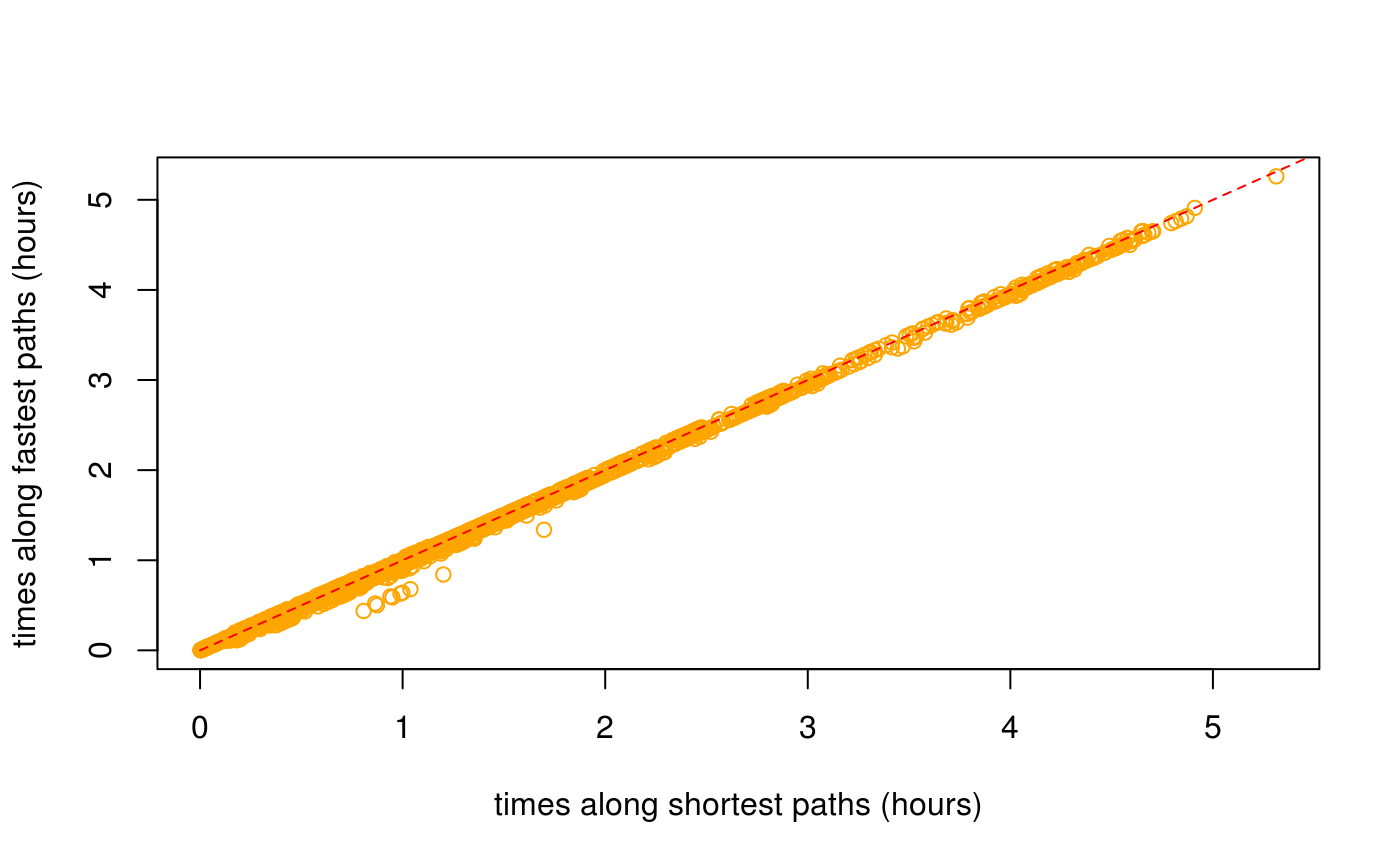
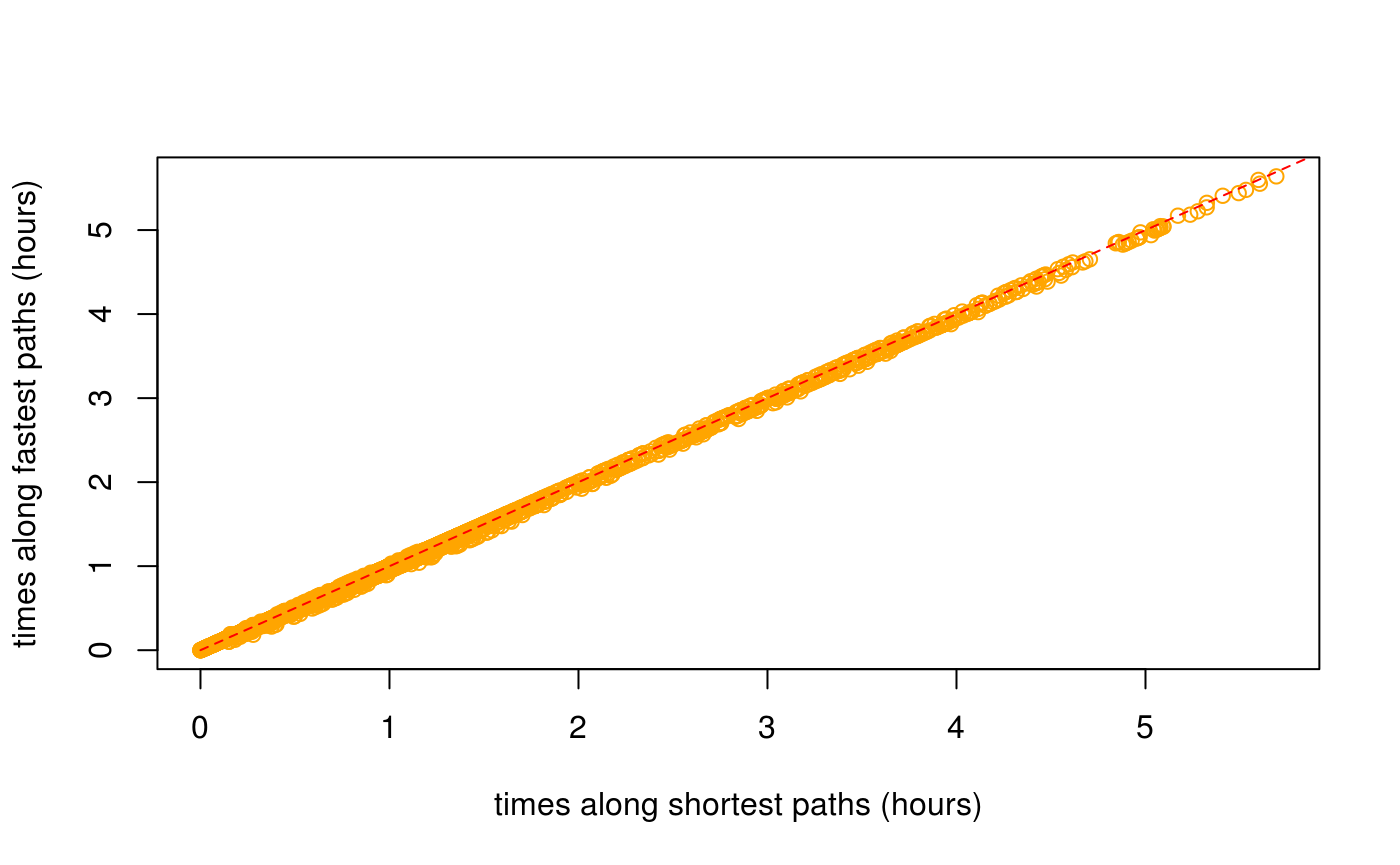
Built site for dodgr: 0.1.4.3@901f969

diff --git a/articles/dodgr.html b/articles/dodgr.html
@@ -330,10 +330,11 @@ Figure 2: A <strong>dual</strong>-weighted, directed graph in which the weights 
 ##                         14                          6 
 ##         Single Carriageway                  Slip Road 
 ##                          1                          8</code></pre>
-<div class="sourceCode" id="cb58"><pre class="sourceCode r"><code class="sourceCode r"><a class="sourceLine" id="cb58-1" data-line-number="1">wts &lt;-<span class="st"> </span><span class="kw"><a href="https://www.rdocumentation.org/packages/base/topics/c">c</a></span> (<span class="fl">0.1</span>, <span class="fl">0.2</span>, <span class="fl">0.8</span>, <span class="dv">1</span>)</a>
-<a class="sourceLine" id="cb58-2" data-line-number="2"><span class="kw"><a href="https://www.rdocumentation.org/packages/base/topics/names">names</a></span> (wts) &lt;-<span class="st"> </span><span class="kw"><a href="https://www.rdocumentation.org/packages/base/topics/unique">unique</a></span> (os_roads_bristol [[colnm]])</a>
-<a class="sourceLine" id="cb58-3" data-line-number="3">net &lt;-<span class="st"> </span><span class="kw"><a href="../reference/weight_streetnet.html">weight_streetnet</a></span> (os_roads_bristol, <span class="dt">wt_profile =</span> wts,</a>
-<a class="sourceLine" id="cb58-4" data-line-number="4">                         <span class="dt">type_col =</span> colnm, <span class="dt">id_col =</span> <span class="st">"identifier"</span>)</a></code></pre></div>
+<div class="sourceCode" id="cb58"><pre class="sourceCode r"><code class="sourceCode r"><a class="sourceLine" id="cb58-1" data-line-number="1">wts &lt;-<span class="st"> </span><span class="kw"><a href="https://www.rdocumentation.org/packages/base/topics/data.frame">data.frame</a></span> (<span class="dt">name =</span> <span class="st">"custom"</span>,</a>
+<a class="sourceLine" id="cb58-2" data-line-number="2">                   <span class="dt">way =</span> <span class="kw"><a href="https://www.rdocumentation.org/packages/base/topics/unique">unique</a></span> (os_roads_bristol [[colnm]]),</a>
+<a class="sourceLine" id="cb58-3" data-line-number="3">                   <span class="dt">value =</span> <span class="kw"><a href="https://www.rdocumentation.org/packages/base/topics/c">c</a></span> (<span class="fl">0.1</span>, <span class="fl">0.2</span>, <span class="fl">0.8</span>, <span class="dv">1</span>))</a>
+<a class="sourceLine" id="cb58-4" data-line-number="4">net &lt;-<span class="st"> </span><span class="kw"><a href="../reference/weight_streetnet.html">weight_streetnet</a></span> (os_roads_bristol, <span class="dt">wt_profile =</span> wts,</a>
+<a class="sourceLine" id="cb58-5" data-line-number="5">                         <span class="dt">type_col =</span> colnm, <span class="dt">id_col =</span> <span class="st">"identifier"</span>)</a></code></pre></div>
 <p>The resultant <code>net</code> object contains the street network of <code>os_roads_bristol</code> weighted by the specified profile, and in a format suitable for submission to any <code>dodgr</code> routine.</p>
 </div>
 <div id="random-sub-graphs" class="section level2">
@@ -419,31 +420,31 @@ Figure 2: A <strong>dual</strong>-weighted, directed graph in which the weights 
 <p>The comparisons are actually made on a randomly selected sub-component of the graph containing a defined number of vertices (with a default of 1,000, or the entire graph if it contains fewer than 1,000 vertices).</p>
 <div class="sourceCode" id="cb77"><pre class="sourceCode r"><code class="sourceCode r"><a class="sourceLine" id="cb77-1" data-line-number="1"><span class="kw"><a href="../reference/compare_heaps.html">compare_heaps</a></span> (graph, <span class="dt">nverts =</span> <span class="dv">100</span>, <span class="dt">replications =</span> <span class="dv">1</span>)</a></code></pre></div>
 <pre><code>##                                                                                   test
+## 12                  d &lt;- igraph::distances(igr, v = from_id, to = to_id, mode = "out")
 ## 6       d &lt;- dodgr_dists(graph_contracted, from = from_id, to = to_id, heap = "BHeap")
-## 7       d &lt;- dodgr_dists(graph_contracted, from = from_id, to = to_id, heap = "FHeap")
 ## 8     d &lt;- dodgr_dists(graph_contracted, from = from_id, to = to_id, heap = "TriHeap")
-## 9  d &lt;- dodgr_dists(graph_contracted, from = from_id, to = to_id, heap = "TriHeapExt")
 ## 10     d &lt;- dodgr_dists(graph_contracted, from = from_id, to = to_id, heap = "Heap23")
 ## 11        d &lt;- dodgr_dists(graph_contracted, from = from_id, to = to_id, heap = "set")
-## 12                  d &lt;- igraph::distances(igr, v = from_id, to = to_id, mode = "out")
 ## 4             d &lt;- dodgr_dists(graph, from = from_id, to = to_id, heap = "TriHeapExt")
 ## 5                 d &lt;- dodgr_dists(graph, from = from_id, to = to_id, heap = "Heap23")
+## 7       d &lt;- dodgr_dists(graph_contracted, from = from_id, to = to_id, heap = "FHeap")
+## 9  d &lt;- dodgr_dists(graph_contracted, from = from_id, to = to_id, heap = "TriHeapExt")
 ## 2                  d &lt;- dodgr_dists(graph, from = from_id, to = to_id, heap = "FHeap")
 ## 3                d &lt;- dodgr_dists(graph, from = from_id, to = to_id, heap = "TriHeap")
 ## 1                  d &lt;- dodgr_dists(graph, from = from_id, to = to_id, heap = "BHeap")
 ##    replications elapsed relative user.self sys.self user.child sys.child
-## 6             1   0.002      1.0     0.000    0.000          0         0
-## 7             1   0.002      1.0     0.000    0.000          0         0
-## 8             1   0.002      1.0     0.004    0.000          0         0
-## 9             1   0.002      1.0     0.004    0.000          0         0
-## 10            1   0.002      1.0     0.004    0.000          0         0
-## 11            1   0.002      1.0     0.000    0.004          0         0
-## 12            1   0.002      1.0     0.004    0.000          0         0
-## 4             1   0.003      1.5     0.004    0.000          0         0
-## 5             1   0.003      1.5     0.004    0.000          0         0
-## 2             1   0.004      2.0     0.004    0.000          0         0
-## 3             1   0.004      2.0     0.004    0.000          0         0
-## 1             1   0.005      2.5     0.004    0.000          0         0</code></pre>
+## 12            1   0.001        1     0.004        0          0         0
+## 6             1   0.002        2     0.000        0          0         0
+## 8             1   0.002        2     0.004        0          0         0
+## 10            1   0.002        2     0.004        0          0         0
+## 11            1   0.002        2     0.004        0          0         0
+## 4             1   0.003        3     0.004        0          0         0
+## 5             1   0.003        3     0.004        0          0         0
+## 7             1   0.003        3     0.004        0          0         0
+## 9             1   0.003        3     0.004        0          0         0
+## 2             1   0.004        4     0.004        0          0         0
+## 3             1   0.004        4     0.004        0          0         0
+## 1             1   0.005        5     0.004        0          0         0</code></pre>
 <p>The key column of that <code>data.frame</code> is <code>relative</code>, which quantifies the relative performance of each test in relation to the best which is given a score of 1. <code>dodgr</code> using the default <code>heap = "BHeap"</code>, which is a binary heap priority queue, performs faster than <code>igraph</code> <span class="citation">(Csardi and Nepusz 2006)</span> for these graphs. Different kind of graphs will perform differently with different priority queue structures, and this function enables users to empirically discern the optimal heap for their kind of graph.</p>
 <p>Note, however, that this is not an entirely fair comparison, because <code>dodgr</code> calculates dual-weighted distances, whereas <code>igraph</code>—and indeed all other <strong>R</strong> packages—only directly calculate distances based on a single set of weights. Implementing dual-weighted routing in these cases requires explicitly re-tracing all paths and summing the second set of weights along each path. A time comparison in that case would be very strongly in favour of <code>dodgr</code>. Moreover, <code>dodgr</code> can convert graphs to contracted form through removing redundant vertices, as detailed in the following section. Doing so greatly improves performance with respect to <code>igraph</code>.</p>
 <p>For those wishing to do explicit comparisons themselves, the following code generates the <code>igraph</code> equivalent of <code><a href="../reference/dodgr_dists.html">dodgr_dists()</a></code>, although of course for single-weighted graphs only:</p>
@@ -496,11 +497,11 @@ Figure 3: <strong>(A)</strong> Vertex#2 is redundant for routing calculations fr
 <pre><code>## [1] 672</code></pre>
 <div class="sourceCode" id="cb89"><pre class="sourceCode r"><code class="sourceCode r"><a class="sourceLine" id="cb89-1" data-line-number="1">verts &lt;-<span class="st"> </span><span class="kw"><a href="https://www.rdocumentation.org/packages/base/topics/sample">sample</a></span> (<span class="kw"><a href="../reference/dodgr_vertices.html">dodgr_vertices</a></span> (graph)<span class="op">$</span>id, <span class="dt">size =</span> <span class="dv">100</span>)</a>
 <a class="sourceLine" id="cb89-2" data-line-number="2"><span class="kw"><a href="https://www.rdocumentation.org/packages/utils/topics/head">head</a></span> (verts) <span class="co"># a character vector</span></a></code></pre></div>
-<pre><code>## [1] "3697937608" "2588155713" "2195424971" "676875130"  "571423824" 
-## [6] "2717241332"</code></pre>
+<pre><code>## [1] "1388482060" "6161853546" "2588146038" "980400874"  "3697943924"
+## [6] "4337842055"</code></pre>
 <div class="sourceCode" id="cb91"><pre class="sourceCode r"><code class="sourceCode r"><a class="sourceLine" id="cb91-1" data-line-number="1">grc &lt;-<span class="st"> </span><span class="kw"><a href="../reference/dodgr_contract_graph.html">dodgr_contract_graph</a></span> (graph, verts)</a>
 <a class="sourceLine" id="cb91-2" data-line-number="2"><span class="kw"><a href="https://www.rdocumentation.org/packages/base/topics/nrow">nrow</a></span> (grc)</a></code></pre></div>
-<pre><code>## [1] 860</code></pre>
+<pre><code>## [1] 844</code></pre>
 <p>Retaining the nominated vertices yields a graph with considerably more edges than the fully contracted graph excluding these vertices. The <code><a href="../reference/dodgr_dists.html">dodgr_dists()</a></code> function can be applied to the latter graph to obtain accurate distances precisely routed between these points, yet using the speed advantages of graph contraction.</p>
 </div>
 </div>
@@ -541,26 +542,45 @@ Figure 3: <strong>(A)</strong> Vertex#2 is redundant for routing calculations fr
 <pre><code>## [1] 10</code></pre>
 <p>The result (<code>dp</code>) is a list of 10 items, each of which contains 5 vectors. An example is,</p>
 <div class="sourceCode" id="cb98"><pre class="sourceCode r"><code class="sourceCode r"><a class="sourceLine" id="cb98-1" data-line-number="1">dp [[<span class="dv">1</span>]] [[<span class="dv">1</span>]]</a></code></pre></div>
-<pre><code>##  [1] "3921524455" "3921524454" "3921523911" "3921523909" "3921523910"
-##  [6] "3921523908" "3921523907" "3921523912" "3921523906" "1204772726"
-## [11] "1204772914" "1388483784" "1388482296" "1388483001" "1204772748"
-## [16] "1204772807" "1204772888" "1388483168" "1204772860" "1204772663"
-## [21] "1388482943" "1388482235" "977472736"  "977472640"  "1388483756"
-## [26] "1388483120" "977472872"  "977472830"  "977473072"  "977472969" 
-## [31] "1388483451" "977473047"  "6410121123" "2627480728" "4552228189"
-## [36] "977472811"  "977472776"  "5351394447" "977473010"  "977472907" 
-## [41] "977473143"</code></pre>
+<pre><code>##   [1] "1143452285" "1143452406" "1148815284" "977473118"  "1148814844"
+##   [6] "977473085"  "3697942891" "2627428639" "2627428626" "2627428649"
+##  [11] "2627428650" "2627428648" "2608163935" "2627428636" "2627428640"
+##  [16] "2627428642" "3921512068" "2627428643" "2627428645" "2627428641"
+##  [21] "2627428646" "2627428638" "2627428651" "2627430653" "2627428637"
+##  [26] "2627428647" "2627428629" "2627428627" "2627428628" "2627428631"
+##  [31] "2627428633" "2627428625" "1143452165" "1143452327" "1143452463"
+##  [36] "1143452113" "1143452207" "1143452383" "1143452534" "1143452145"
+##  [41] "2627440420" "2627440424" "1143452232" "1143452410" "1143452262"
+##  [46] "1143452379" "1143452183" "1143452174" "1143452087" "1143452415"
+##  [51] "1143452293" "1143452135" "1143452063" "1143452360" "1143452234"
+##  [56] "1143452099" "1143452506" "3697940688" "3697940693" "571423793" 
+##  [61] "1143452264" "571423799"  "1143452116" "1143452536" "571423809" 
+##  [66] "571423815"  "571423818"  "1143452332" "571423819"  "977490135" 
+##  [71] "977490141"  "977490130"  "1388482916" "1388483223" "1388482536"
+##  [76] "1388482060" "2718045832" "2195424937" "2195424935" "2195424934"
+##  [81] "2195424938" "2195424940" "2195424943" "2195424944" "2195424950"
+##  [86] "2195424951" "2195424956" "2195424955" "2195424948" "2195424942"
+##  [91] "2195424936" "2195424933" "2195424931" "2195424932" "2195424929"
+##  [96] "2195424930" "2195424945" "2195424953" "2195424954" "2195424961"
+## [101] "2195424963" "2195424968" "2195424970" "2195424973" "2195424974"
+## [106] "2195424980" "2195424981" "2195424983" "2195424988" "2195424989"
+## [111] "2195424993" "2195425003" "2195425012" "2195425016" "2195425019"
+## [116] "2627488725" "2195425028" "2195425035" "2195425056" "2195425066"
+## [121] "2195425067" "2195425068" "2195425069" "2195425070" "2195425073"
+## [126] "2195425074" "2195425075" "2195425078" "2195425080" "2195425082"
+## [131] "2195425085" "2195425087" "2195425092" "2195425096" "2195425097"
+## [136] "2195425099" "2195425106" "2195425109" "2195425119"</code></pre>
 <p>For spatial graphs, the coordinates of these paths can be obtained by extracting the vertices with <code><a href="../reference/dodgr_vertices.html">dodgr_vertices()</a></code> and matching the vertex IDs:</p>
 <div class="sourceCode" id="cb100"><pre class="sourceCode r"><code class="sourceCode r"><a class="sourceLine" id="cb100-1" data-line-number="1">verts &lt;-<span class="st"> </span><span class="kw"><a href="../reference/dodgr_vertices.html">dodgr_vertices</a></span> (graph)</a>
 <a class="sourceLine" id="cb100-2" data-line-number="2">path1 &lt;-<span class="st"> </span>verts [<span class="kw"><a href="https://www.rdocumentation.org/packages/base/topics/match">match</a></span> (dp [[<span class="dv">1</span>]] [[<span class="dv">1</span>]], verts<span class="op">$</span>id), ]</a>
 <a class="sourceLine" id="cb100-3" data-line-number="3"><span class="kw"><a href="https://www.rdocumentation.org/packages/utils/topics/head">head</a></span> (path1)</a></code></pre></div>
-<pre><code>##              id        x        y component    n
-## 5156 3921524455 76.44361 15.34267         2 2547
-## 5154 3921524454 76.44348 15.34294         2 2546
-## 5152 3921523911 76.44313 15.34312         2 2545
-## 5150 3921523909 76.44288 15.34335         2 2544
-## 5148 3921523910 76.44284 15.34398         2 2543
-## 5146 3921523908 76.44287 15.34407         2 2542</code></pre>
+<pre><code>##              id        x        y component   n
+## 1890 1143452285 76.46111 15.34059         2 957
+## 1888 1143452406 76.46110 15.34093         2 956
+## 1886 1148815284 76.46112 15.34127         2 955
+## 1884  977473118 76.46110 15.34150         2 954
+## 1882 1148814844 76.46085 15.34155         2 953
+## 1880  977473085 76.46040 15.34167         2 952</code></pre>
 <p>Paths calculated on contracted graphs will of course have fewer vertices than those calculated on full graphs.</p>
 </div>
 <div id="aggregated-flows" class="section level1">
@@ -604,7 +624,7 @@ Figure 3: <strong>(A)</strong> Vertex#2 is redundant for routing calculations fr
 <p>Most flows are zero because they have only been calculated between very few points in the graph.</p>
 <div class="sourceCode" id="cb105"><pre class="sourceCode r"><code class="sourceCode r"><a class="sourceLine" id="cb105-1" data-line-number="1"><span class="kw"><a href="https://www.rdocumentation.org/packages/base/topics/summary">summary</a></span> (graph_f<span class="op">$</span>flow)</a></code></pre></div>
 <pre><code>##    Min. 1st Qu.  Median    Mean 3rd Qu.    Max. 
-##   0.000   0.000   0.000   6.971   0.000 124.706</code></pre>
+##   0.000   0.000   0.000   6.629   0.000  79.022</code></pre>
 </div>
 <div id="flow-dispersal" class="section level2">
 <h2 class="hasAnchor">
@@ -614,7 +634,7 @@ Figure 3: <strong>(A)</strong> Vertex#2 is redundant for routing calculations fr
 <a class="sourceLine" id="cb107-2" data-line-number="2">graph_f &lt;-<span class="st"> </span><span class="kw"><a href="../reference/dodgr_flows_disperse.html">dodgr_flows_disperse</a></span> (graph, <span class="dt">from =</span> from, <span class="dt">dens =</span> dens)</a>
 <a class="sourceLine" id="cb107-3" data-line-number="3"><span class="kw"><a href="https://www.rdocumentation.org/packages/base/topics/summary">summary</a></span> (graph_f<span class="op">$</span>flow)</a></code></pre></div>
 <pre><code>##      Min.   1st Qu.    Median      Mean   3rd Qu.      Max. 
-## 0.000e+00 0.000e+00 0.000e+00 1.395e-05 0.000e+00 4.967e-02</code></pre>
+## 0.000e+00 0.000e+00 0.000e+00 7.374e-06 0.000e+00 2.873e-02</code></pre>
 </div>
 <div id="merging-directed-flows" class="section level2">
 <h2 class="hasAnchor">
@@ -624,7 +644,7 @@ Figure 3: <strong>(A)</strong> Vertex#2 is redundant for routing calculations fr
 <p>Resultant graphs produced by <code><a href="../reference/merge_directed_flows.html">merge_directed_flows()</a></code> only include those edges having non-zero flows, and so:</p>
 <div class="sourceCode" id="cb110"><pre class="sourceCode r"><code class="sourceCode r"><a class="sourceLine" id="cb110-1" data-line-number="1"><span class="kw"><a href="https://www.rdocumentation.org/packages/base/topics/nrow">nrow</a></span> (graph_f); <span class="kw"><a href="https://www.rdocumentation.org/packages/base/topics/nrow">nrow</a></span> (graph_undir) <span class="co"># the latter is much smaller</span></a></code></pre></div>
 <pre><code>## [1] 5973</code></pre>
-<pre><code>## [1] 1742</code></pre>
+<pre><code>## [1] 1566</code></pre>
 <p>The resultant graph can readily be merged with the original graph to regain the original data on vertex coordinates through</p>
 <div class="sourceCode" id="cb113"><pre class="sourceCode r"><code class="sourceCode r"><a class="sourceLine" id="cb113-1" data-line-number="1">graph &lt;-<span class="st"> </span>graph [graph_undir<span class="op">$</span>edge_id, ]</a>
 <a class="sourceLine" id="cb113-2" data-line-number="2">graph<span class="op">$</span>flow &lt;-<span class="st"> </span>graph_undir<span class="op">$</span>flow</a></code></pre></div>

diff --git a/articles/times.html b/articles/times.html
@@ -233,11 +233,11 @@ Figure 1: Graph modification to account for turn angles, which introduces the ad
 <p><img src="times_files/figure-html/shortest-vs-fastest-1.png" width="700"></p>
 <p>The average distance between the two (in metres) is:</p>
 <div class="sourceCode" id="cb11"><pre class="sourceCode r"><code class="sourceCode r"><a class="sourceLine" id="cb11-1" data-line-number="1"><span class="kw"><a href="https://www.rdocumentation.org/packages/base/topics/mean">mean</a></span> (<span class="kw"><a href="https://www.rdocumentation.org/packages/base/topics/MathFun">abs</a></span> (d_time <span class="op">-</span><span class="st"> </span>d_dist), <span class="dt">na.rm =</span> <span class="ot">TRUE</span>)</a></code></pre></div>
-<pre><code>## [1] 52.38959</code></pre>
+<pre><code>## [1] 31.20906</code></pre>
 <p>The plot reveals that shortest distances are indeed somewhat shorter than distances along fastest paths, but also that some fastest paths are actually shorter than shortest paths:</p>
 <div class="sourceCode" id="cb13"><pre class="sourceCode r"><code class="sourceCode r"><a class="sourceLine" id="cb13-1" data-line-number="1">index &lt;-<span class="st"> </span><span class="kw"><a href="https://www.rdocumentation.org/packages/base/topics/which">which</a></span> (<span class="op">!</span><span class="kw"><a href="https://www.rdocumentation.org/packages/base/topics/NA">is.na</a></span> (d_time) <span class="op">&amp;</span><span class="st"> </span><span class="op">!</span><span class="kw"><a href="https://www.rdocumentation.org/packages/base/topics/NA">is.na</a></span> (d_dist))</a>
 <a class="sourceLine" id="cb13-2" data-line-number="2"><span class="kw"><a href="https://www.rdocumentation.org/packages/base/topics/length">length</a></span> (<span class="kw"><a href="https://www.rdocumentation.org/packages/base/topics/which">which</a></span> (d_time [index] <span class="op">&lt;</span><span class="st"> </span>d_dist [index])) <span class="op">/</span><span class="st"> </span><span class="kw"><a href="https://www.rdocumentation.org/packages/base/topics/length">length</a></span> (index)</a></code></pre></div>
-<pre><code>## [1] 0.02239789</code></pre>
+<pre><code>## [1] 0.01360153</code></pre>
 <p>While <code>dodgr</code> and indeed all routing engines attempt to maximally reconcile differences between fastest and shortest routes, there nevertheless remain important discrepancies. Foremost among these, and the primary reason why some fastest routes may in fact be shorter than shortest routes, is that fastest routes allocate preferences for different kinds of way based both on the <code>value</code> column in the <code>weighting_profiles$weighting_profiles</code> table illustrated above, and on the actual maximum speed of a given edge, which itself may be a combination of maximum speeds as specified in OSM itself, maximum speeds from the <code>weighting_profiles$weighting_profiles</code> table, or values specific to a given surface. The result is that some unique combination of maximum speeds along a network may lead to <em>fastest</em> routes being preferentially directed along a path that is actually shorter than the direct shortest path which is calculated independent of maximum speed values.</p>
 <p>Such discrepancies are important in understanding differences in routes <em>times</em> calculated along shortest versus fastest paths. These times can be calculated (in seconds) with the <a href="https://atfutures.github.io/dodgr/reference/dodgr_times.html"><code><a href="../reference/dodgr_times.html">dodgr_times()</a></code></a> function:</p>
 <div class="sourceCode" id="cb15"><pre class="sourceCode r"><code class="sourceCode r"><a class="sourceLine" id="cb15-1" data-line-number="1">t_dist &lt;-<span class="st"> </span><span class="kw"><a href="../reference/dodgr_times.html">dodgr_times</a></span> (graph, <span class="dt">from =</span> from, <span class="dt">to =</span> to, <span class="dt">shortest =</span> <span class="ot">TRUE</span>) <span class="co"># default</span></a>
@@ -248,11 +248,11 @@ Figure 1: Graph modification to account for turn angles, which introduces the ad
 <a class="sourceLine" id="cb15-6" data-line-number="6"><span class="kw"><a href="https://www.rdocumentation.org/packages/graphics/topics/lines">lines</a></span> (<span class="dv">0</span><span class="op">:</span><span class="dv">100</span>, <span class="dv">0</span><span class="op">:</span><span class="dv">100</span>, <span class="dt">col =</span> <span class="st">"red"</span>, <span class="dt">lty =</span> <span class="dv">2</span>)</a></code></pre></div>
 <p><img src="times_files/figure-html/shortest-vs-fastest-times-1.png" width="700"></p>
 <div class="sourceCode" id="cb16"><pre class="sourceCode r"><code class="sourceCode r"><a class="sourceLine" id="cb16-1" data-line-number="1"><span class="kw"><a href="https://www.rdocumentation.org/packages/base/topics/mean">mean</a></span> (<span class="kw"><a href="https://www.rdocumentation.org/packages/base/topics/MathFun">abs</a></span> (t_time <span class="op">-</span><span class="st"> </span>t_dist), <span class="dt">na.rm =</span> <span class="ot">TRUE</span>)</a></code></pre></div>
-<pre><code>## [1] 44.61712</code></pre>
+<pre><code>## [1] 30.70479</code></pre>
 <p>As above, times along fastest paths are generally less than times along shortest paths, although there are again a few exceptions:</p>
 <div class="sourceCode" id="cb18"><pre class="sourceCode r"><code class="sourceCode r"><a class="sourceLine" id="cb18-1" data-line-number="1">index &lt;-<span class="st"> </span><span class="kw"><a href="https://www.rdocumentation.org/packages/base/topics/which">which</a></span> (<span class="op">!</span><span class="kw"><a href="https://www.rdocumentation.org/packages/base/topics/NA">is.na</a></span> (t_time) <span class="op">&amp;</span><span class="st"> </span><span class="op">!</span><span class="kw"><a href="https://www.rdocumentation.org/packages/base/topics/NA">is.na</a></span> (t_dist))</a>
 <a class="sourceLine" id="cb18-2" data-line-number="2"><span class="kw"><a href="https://www.rdocumentation.org/packages/base/topics/length">length</a></span> (<span class="kw"><a href="https://www.rdocumentation.org/packages/base/topics/which">which</a></span> (t_dist [index] <span class="op">&lt;</span><span class="st"> </span>t_time [index])) <span class="op">/</span><span class="st"> </span><span class="kw"><a href="https://www.rdocumentation.org/packages/base/topics/length">length</a></span> (index)</a></code></pre></div>
-<pre><code>## [1] 0.03124412</code></pre>
+<pre><code>## [1] 0.01283525</code></pre>
 <p>These results demonstrate how the combination of the <a href="https://atfutures.github.io/dodgr/reference/dodgr_distances.html"><code><a href="../reference/dodgr_distances.html">dodgr_distances()</a></code></a> and <a href="https://atfutures.github.io/dodgr/reference/dodgr_times.html"><code><a href="../reference/dodgr_times.html">dodgr_times()</a></code></a> functions enable calculation of both distances and times along both shortest and fastest paths.</p>
 <div id="time-based-paths-and-flow-aggregation" class="section level2">
 <h2 class="hasAnchor">

diff --git a/reference/compare_heaps.html b/reference/compare_heaps.html
@@ -155,11 +155,11 @@ fair comparisons, run only once or re-start the current R session.</p>
     <pre class="examples"><div class='input'><span class='no'>graph</span> <span class='kw'>&lt;-</span> <span class='fu'><a href='weight_streetnet.html'>weight_streetnet</a></span> (<span class='no'>hampi</span>)
 <span class='fu'>compare_heaps</span> (<span class='no'>graph</span>, <span class='kw'>nverts</span> <span class='kw'>=</span> <span class='fl'>1000</span>, <span class='kw'>replications</span> <span class='kw'>=</span> <span class='fl'>1</span>)</div><div class='output co'>#&gt;                                                                                   test
 #&gt; 6       d &lt;- dodgr_dists(graph_contracted, from = from_id, to = to_id, heap = "BHeap")
-#&gt; 11        d &lt;- dodgr_dists(graph_contracted, from = from_id, to = to_id, heap = "set")
 #&gt; 8     d &lt;- dodgr_dists(graph_contracted, from = from_id, to = to_id, heap = "TriHeap")
-#&gt; 9  d &lt;- dodgr_dists(graph_contracted, from = from_id, to = to_id, heap = "TriHeapExt")
 #&gt; 10     d &lt;- dodgr_dists(graph_contracted, from = from_id, to = to_id, heap = "Heap23")
+#&gt; 11        d &lt;- dodgr_dists(graph_contracted, from = from_id, to = to_id, heap = "set")
 #&gt; 7       d &lt;- dodgr_dists(graph_contracted, from = from_id, to = to_id, heap = "FHeap")
+#&gt; 9  d &lt;- dodgr_dists(graph_contracted, from = from_id, to = to_id, heap = "TriHeapExt")
 #&gt; 12                  d &lt;- igraph::distances(igr, v = from_id, to = to_id, mode = "out")
 #&gt; 1                  d &lt;- dodgr_dists(graph, from = from_id, to = to_id, heap = "BHeap")
 #&gt; 2                  d &lt;- dodgr_dists(graph, from = from_id, to = to_id, heap = "FHeap")
@@ -167,18 +167,18 @@ fair comparisons, run only once or re-start the current R session.</p>
 #&gt; 5                 d &lt;- dodgr_dists(graph, from = from_id, to = to_id, heap = "Heap23")
 #&gt; 4             d &lt;- dodgr_dists(graph, from = from_id, to = to_id, heap = "TriHeapExt")
 #&gt;    replications elapsed relative user.self sys.self user.child sys.child
-#&gt; 6             1   0.005      1.0     0.004        0          0         0
-#&gt; 11            1   0.005      1.0     0.008        0          0         0
-#&gt; 8             1   0.006      1.2     0.012        0          0         0
-#&gt; 9             1   0.006      1.2     0.008        0          0         0
+#&gt; 6             1   0.005      1.0     0.008        0          0         0
+#&gt; 8             1   0.006      1.2     0.008        0          0         0
 #&gt; 10            1   0.006      1.2     0.008        0          0         0
+#&gt; 11            1   0.006      1.2     0.008        0          0         0
 #&gt; 7             1   0.007      1.4     0.008        0          0         0
+#&gt; 9             1   0.007      1.4     0.004        0          0         0
 #&gt; 12            1   0.015      3.0     0.016        0          0         0
-#&gt; 1             1   0.024      4.8     0.036        0          0         0
-#&gt; 2             1   0.031      6.2     0.052        0          0         0
-#&gt; 3             1   0.032      6.4     0.056        0          0         0
-#&gt; 5             1   0.033      6.6     0.056        0          0         0
-#&gt; 4             1   0.036      7.2     0.036        0          0         0</div></pre>
+#&gt; 1             1   0.025      5.0     0.040        0          0         0
+#&gt; 2             1   0.033      6.6     0.056        0          0         0
+#&gt; 3             1   0.034      6.8     0.056        0          0         0
+#&gt; 5             1   0.035      7.0     0.064        0          0         0
+#&gt; 4             1   0.037      7.4     0.036        0          0         0</div></pre>
   </div>
   <div class="col-md-3 hidden-xs hidden-sm" id="sidebar">
     <h2>Contents</h2>

diff --git a/reference/weight_streetnet.html b/reference/weight_streetnet.html
@@ -144,8 +144,8 @@ objects, typically extracted with <a href='dodgr_streetnet.html'>dodgr_streetnet
     </tr>
     <tr>
       <th>wt_profile</th>
-      <td><p>Name of weighting profile, or vector of values with names
-corresponding to names in <code>type_col</code> (see Details)</p></td>
+      <td><p>Name of weighting profile, or <code>data.frame</code> specifying
+custom values (see Details)</p></td>
     </tr>
     <tr>
       <th>wt_profile_file</th>
@@ -205,7 +205,8 @@ are "bicycle", "foot", "goods", "hgv", "horse", "moped", "motorcar",
 with the separate function <a href='weight_railway.html'>weight_railway</a>. Alternatively, the entire
 <code>weighting_profile</code> structures can be written to a local <code>.json</code>-formatted
 file with <a href='write_dodgr_wt_profile.html'>write_dodgr_wt_profile</a>, the values edited as desired, and
-the name of this file passed as the <code>wt_profile_file</code> parameter.</p>
+the name of this file passed as the <code>wt_profile_file</code> parameter. Construction
+of custom weighting profiles is illustrated in the following example.</p>
 <p>Calculating edge times to account for turn angles (that is, with
 <code>turn_angle = TRUE</code>) involves calculating the temporal delay involving in
 turning across oncoming traffic. Resultant graphs are fundamentally different
@@ -226,8 +227,9 @@ functions nor forms of network analysis.</p>
 <span class='co'># format requiring identification of columns and specification of custom</span>
 <span class='co'># weighting scheme.</span>
 <span class='no'>colnm</span> <span class='kw'>&lt;-</span> <span class='st'>"formOfWay"</span>
-<span class='no'>wts</span> <span class='kw'>&lt;-</span> <span class='fu'><a href='https://www.rdocumentation.org/packages/base/topics/c'>c</a></span> (<span class='fl'>0.1</span>, <span class='fl'>0.2</span>, <span class='fl'>0.8</span>, <span class='fl'>1</span>)
-<span class='fu'><a href='https://www.rdocumentation.org/packages/base/topics/names'>names</a></span> (<span class='no'>wts</span>) <span class='kw'>&lt;-</span> <span class='fu'><a href='https://www.rdocumentation.org/packages/base/topics/unique'>unique</a></span> (<span class='no'>os_roads_bristol</span> <span class='kw'>[[</span><span class='no'>colnm</span>]])
+<span class='no'>wts</span> <span class='kw'>&lt;-</span> <span class='fu'><a href='https://www.rdocumentation.org/packages/base/topics/data.frame'>data.frame</a></span> (<span class='kw'>name</span> <span class='kw'>=</span> <span class='st'>"custom"</span>,
+                   <span class='kw'>way</span> <span class='kw'>=</span> <span class='fu'><a href='https://www.rdocumentation.org/packages/base/topics/unique'>unique</a></span> (<span class='no'>os_roads_bristol</span> <span class='kw'>[[</span><span class='no'>colnm</span>]]),
+                   <span class='kw'>value</span> <span class='kw'>=</span> <span class='fu'><a href='https://www.rdocumentation.org/packages/base/topics/c'>c</a></span> (<span class='fl'>0.1</span>, <span class='fl'>0.2</span>, <span class='fl'>0.8</span>, <span class='fl'>1</span>))
 <span class='no'>net</span> <span class='kw'>&lt;-</span> <span class='fu'>weight_streetnet</span> (<span class='no'>os_roads_bristol</span>, <span class='kw'>wt_profile</span> <span class='kw'>=</span> <span class='no'>wts</span>,
                          <span class='kw'>type_col</span> <span class='kw'>=</span> <span class='no'>colnm</span>, <span class='kw'>id_col</span> <span class='kw'>=</span> <span class='st'>"identifier"</span>)
 <span class='fu'><a href='https://www.rdocumentation.org/packages/base/topics/dim'>dim</a></span> (<span class='no'>net</span>) <span class='co'># 406 11; 406 streets</span></div><div class='output co'>#&gt; [1] 812  16</div><div class='input'>

diff --git a/reference/os_roads_bristol.html b/reference/os_roads_bristol.html
@@ -145,8 +145,9 @@ Contains OS data © Crown copyright and database right (2017)</p>
 <span class='co'># }</span><div class='input'><span class='co'># Converting this 'sf data.frame' to a 'dodgr' network requires manual</span>
 <span class='co'># specification of weighting profile:</span>
 <span class='no'>colnm</span> <span class='kw'>&lt;-</span> <span class='st'>"formOfWay"</span> <span class='co'># name of column used to determine weights</span>
-<span class='no'>wts</span> <span class='kw'>&lt;-</span> <span class='fu'><a href='https://www.rdocumentation.org/packages/base/topics/c'>c</a></span> (<span class='fl'>0.1</span>, <span class='fl'>0.2</span>, <span class='fl'>0.8</span>, <span class='fl'>1</span>)
-<span class='fu'><a href='https://www.rdocumentation.org/packages/base/topics/names'>names</a></span> (<span class='no'>wts</span>) <span class='kw'>&lt;-</span> <span class='fu'><a href='https://www.rdocumentation.org/packages/base/topics/unique'>unique</a></span> (<span class='no'>os_roads_bristol</span> <span class='kw'>[[</span><span class='no'>colnm</span>]])
+<span class='no'>wts</span> <span class='kw'>&lt;-</span> <span class='fu'><a href='https://www.rdocumentation.org/packages/base/topics/data.frame'>data.frame</a></span> (<span class='kw'>name</span> <span class='kw'>=</span> <span class='st'>"custom"</span>,
+                   <span class='kw'>way</span> <span class='kw'>=</span> <span class='fu'><a href='https://www.rdocumentation.org/packages/base/topics/unique'>unique</a></span> (<span class='no'>os_roads_bristol</span> <span class='kw'>[[</span><span class='no'>colnm</span>]]),
+                   <span class='kw'>value</span> <span class='kw'>=</span> <span class='fu'><a href='https://www.rdocumentation.org/packages/base/topics/c'>c</a></span> (<span class='fl'>0.1</span>, <span class='fl'>0.2</span>, <span class='fl'>0.8</span>, <span class='fl'>1</span>))
 <span class='no'>net</span> <span class='kw'>&lt;-</span> <span class='fu'><a href='weight_streetnet.html'>weight_streetnet</a></span> (<span class='no'>os_roads_bristol</span>, <span class='kw'>wt_profile</span> <span class='kw'>=</span> <span class='no'>wts</span>,
                          <span class='kw'>type_col</span> <span class='kw'>=</span> <span class='no'>colnm</span>, <span class='kw'>id_col</span> <span class='kw'>=</span> <span class='st'>"identifier"</span>)
 <span class='co'># 'id_col' tells the function which column to use to attribute IDs of ways</span></div></pre>

diff --git a/index.html b/index.html
@@ -511,7 +511,7 @@
 <td align="right">1</td>
 <td align="right">95.358362</td>
 <td align="right">119.197952</td>
-<td align="right">0</td>
+<td align="right">18.97179</td>
 </tr>
 <tr class="even">
 <td align="right">1</td>
@@ -529,7 +529,7 @@
 <td align="right">1</td>
 <td align="right">95.358362</td>
 <td align="right">119.197952</td>
-<td align="right">0</td>
+<td align="right">0.00000</td>
 </tr>
 <tr class="odd">
 <td align="right">1</td>
@@ -547,7 +547,7 @@
 <td align="right">1</td>
 <td align="right">6.399843</td>
 <td align="right">7.999803</td>
-<td align="right">0</td>
+<td align="right">18.97179</td>
 </tr>
 <tr class="even">
 <td align="right">1</td>
@@ -565,7 +565,7 @@
 <td align="right">1</td>
 <td align="right">6.399843</td>
 <td align="right">7.999803</td>
-<td align="right">0</td>
+<td align="right">0.00000</td>
 </tr>
 <tr class="odd">
 <td align="right">1</td>
@@ -583,7 +583,7 @@
 <td align="right">1</td>
 <td align="right">6.715106</td>
 <td align="right">8.393882</td>
-<td align="right">0</td>
+<td align="right">18.97179</td>
 </tr>
 <tr class="even">
 <td align="right">1</td>
@@ -601,7 +601,7 @@
 <td align="right">1</td>
 <td align="right">6.715106</td>
 <td align="right">8.393882</td>
-<td align="right">0</td>
+<td align="right">0.00000</td>
 </tr>
 </tbody>
 </table>
